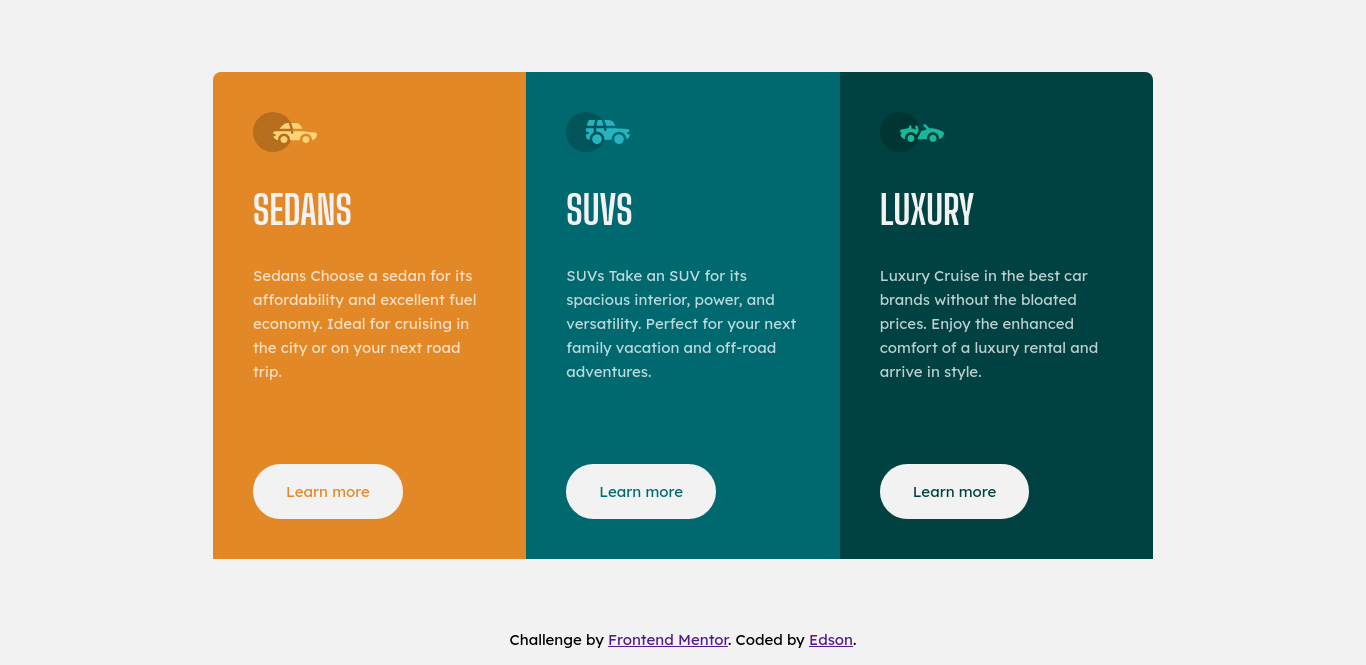
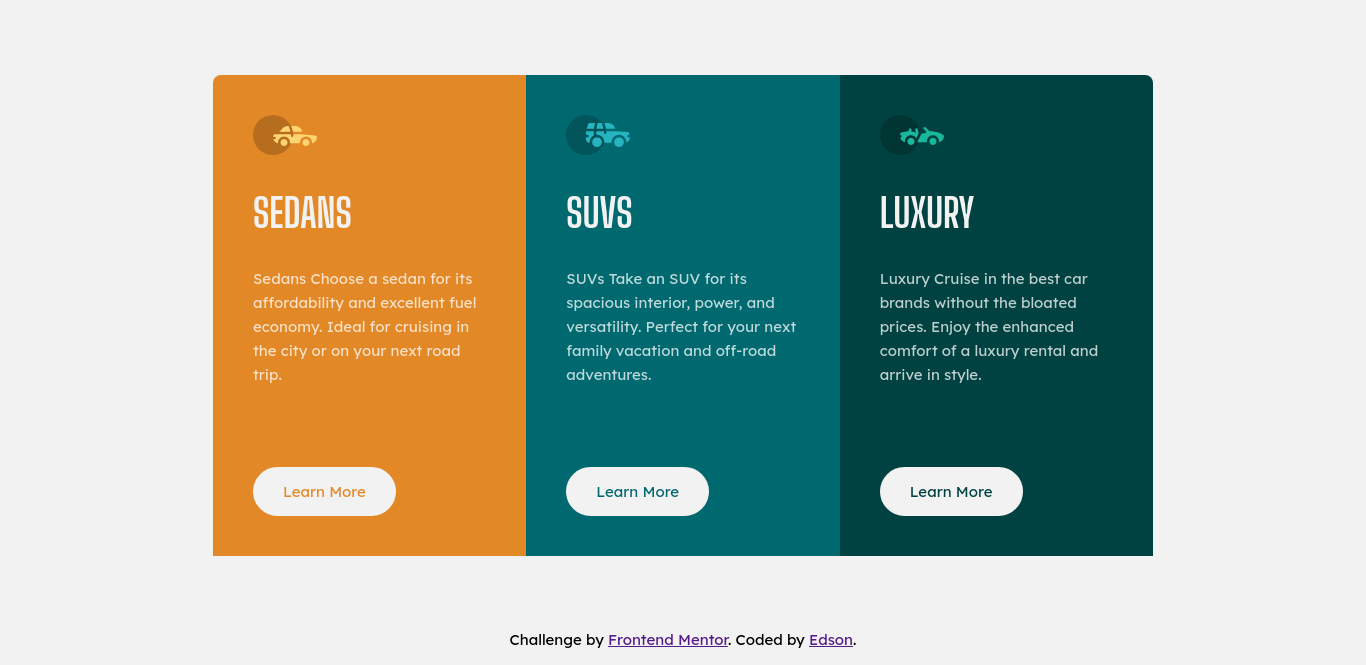
Changing button size

diff --git a/style.css b/style.css
@@ -82,10 +82,11 @@ body {
 
     cursor: pointer;
 
-    padding: 16px 31px;
+    padding: 13px 28px;
     margin-top: 80px;
 
     transition: 0.2s;
+    text-transform: capitalize;
 }
 
 .card .card__content .btn_1 {
